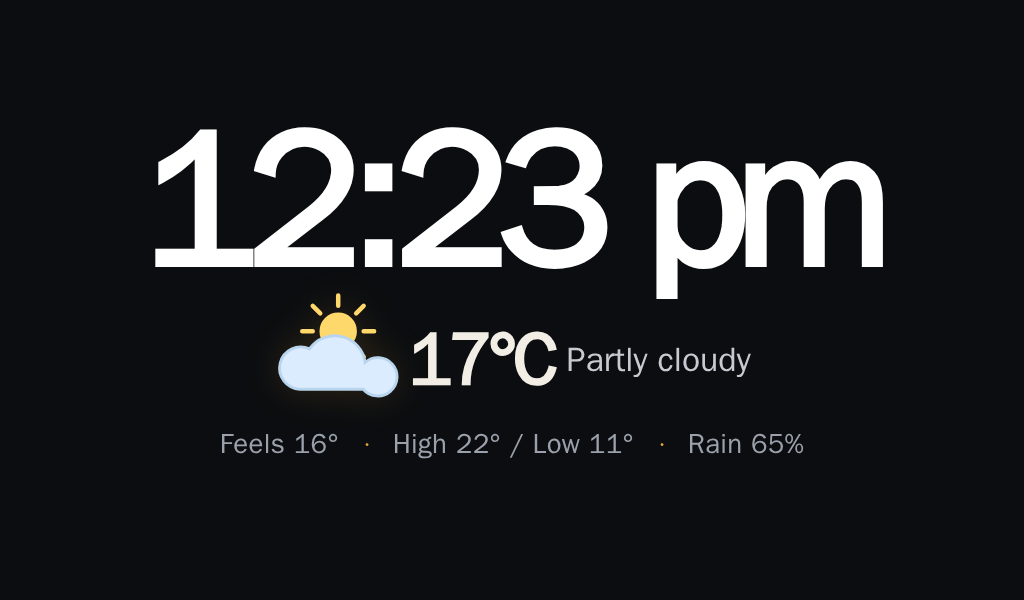
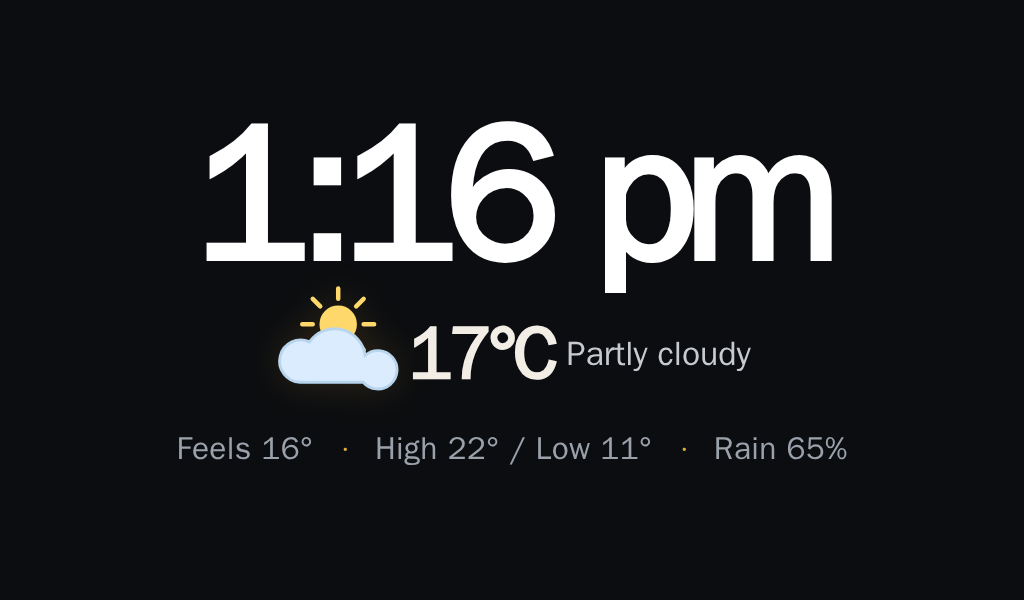
Increase Cast weather detail readability

Changed region(s): [[0.125, 0.18, 0.875, 0.51], [0.25, 0.48, 0.75, 0.66], [0.1562, 0.72, 0.8438, 0.78]]

diff --git a/cast/live-layout.html b/cast/live-layout.html
@@ -4,10 +4,10 @@
 :root{color-scheme:dark;--bg:#090b10;--panel:#141821;--line:#303745;--text:#f5f7fb;--muted:#a9b2c2;--accent:#f5a623}*{box-sizing:border-box}body{margin:0;background:var(--bg);color:var(--text);font:15px system-ui,sans-serif}a{color:var(--accent)}header.page{max-width:1420px;margin:auto;padding:20px 24px 0}nav{display:flex;gap:18px;flex-wrap:wrap}h1{font-size:26px;margin:22px 0 5px}p{color:var(--muted);line-height:1.5;margin:0 0 16px}main{max-width:1420px;margin:auto;display:grid;grid-template-columns:minmax(0,1fr) 330px;gap:20px;padding:20px 24px;align-items:start}.canvas{min-width:0;position:sticky;top:16px}.preview{border:1px solid var(--line);border-radius:16px;background:#000;overflow:hidden}iframe{display:block;width:100%;aspect-ratio:16/10;border:0}.surfaces,.chips,.actions,.align{display:flex;gap:8px;flex-wrap:wrap;margin-bottom:16px}button,select,input[type=number]{font:inherit;color:var(--text);background:#0b0e14;border:1px solid var(--line);border-radius:9px;padding:10px;cursor:pointer}button:hover{border-color:var(--accent)}button:focus-visible,a:focus-visible,input:focus-visible,select:focus-visible{outline:3px solid var(--accent);outline-offset:2px}button[aria-selected=true],button[aria-pressed=true]{border-color:var(--accent);background:#30240f}.chips{margin-top:16px}.chip{border-radius:99px}.chip.off{color:var(--muted);border-style:dashed}.controls{border:1px solid var(--line);border-radius:16px;background:var(--panel);padding:20px}h2{font-size:19px;margin:0 0 15px}.field{margin:18px 0}.field label{display:flex;justify-content:space-between;align-items:center;font-weight:650;margin-bottom:8px}output{color:var(--accent)}input[type=range]{width:100%;accent-color:var(--accent)}select{width:100%}input[type=color]{width:48px;height:32px;padding:0;border:0;background:transparent}.field small{display:block;color:var(--muted);margin-top:5px}.primary{background:var(--accent);color:#17110a;font-weight:800;border-color:var(--accent)}.savebar{position:sticky;bottom:0;background:var(--panel);padding-top:16px;border-top:1px solid var(--line);margin-top:20px}.savebar .actions{margin-bottom:8px}.savebar button{flex:1}.status{min-height:42px;color:var(--muted);font-size:13px;line-height:1.5}.check{display:flex;gap:8px;align-items:center;margin:16px 0}summary{cursor:pointer;color:var(--muted);padding:14px 0}.hint{font-size:13px;margin-top:12px}.align button{flex:1}button:disabled{opacity:.45;cursor:default}@media(max-width:850px){main{grid-template-columns:1fr;padding:14px}.canvas{position:static}header.page{padding:16px 14px 0}.controls{padding:18px}.surfaces button{flex:1;white-space:nowrap}.savebar{bottom:0}}
 </style>
 <link rel="stylesheet" href="https://fonts.googleapis.com/css2?family=Bebas+Neue&display=swap">
-<link rel="stylesheet" href="/control-shell.css?v=2.12.22">
-<link rel="stylesheet" href="/control-touch-contract.css?v=2.12.22">
-<link rel="stylesheet" href="/control-shell-narrow.css?v=2.12.22">
-<script defer src="/numeric-controls.js?v=2.12.22"></script><script defer src="/control-shell.js?v=2.12.22"></script><script src="/settings-draft.js?v=2.12.22"></script></head><body class="admin-touch-contract">
+<link rel="stylesheet" href="/control-shell.css?v=2.12.23">
+<link rel="stylesheet" href="/control-touch-contract.css?v=2.12.23">
+<link rel="stylesheet" href="/control-shell-narrow.css?v=2.12.23">
+<script defer src="/numeric-controls.js?v=2.12.23"></script><script defer src="/control-shell.js?v=2.12.23"></script><script src="/settings-draft.js?v=2.12.23"></script></head><body class="admin-touch-contract">
 <header class="page"><h1>Live / Kiosk layout</h1><nav class="mq-profile-picker" aria-label="Layout profile"><a href="/settings/layout?profile=cast">Cast cards</a><a href="/settings/layout?profile=live" aria-current="page">Live / Kiosk screens</a></nav><p>Choose a screen, select an item, then drag it into place or fine-tune it below.</p></header>
 <main><section class="canvas" aria-label="Screen preview"><div class="surfaces" id="surfaces" role="tablist" aria-label="Preview surface"></div><div class="preview"><iframe id="preview" title="Interactive preview of the selected Live screen"></iframe></div><div class="actions" id="weather-views" hidden><button type="button" data-weather-view="weather-clear">Conditions &amp; forecast</button><button type="button" data-weather-view="weather">Rain &amp; radar</button></div><div class="chips" id="chips" aria-label="Select a screen item"></div><p class="hint">Tap an item in the preview to edit it. Drag to move it. Each screen keeps its own layout.</p></section>
 <aside class="controls"><div class="field"><label for="liveTheme">Visual direction</label><select id="liveTheme"><option value="studio">Studio — oversized type / lime &amp; ink</option><option value="afterhours">After Hours — luminous control room</option><option value="dispatch">Dispatch — the household front page</option></select><small id="theme-description">Distinct layouts, typography, and materials for the household desk.</small></div><h2 id="selected-title">Clock</h2><label class="check"><input id="visible" type="checkbox"> Show this item</label>

diff --git a/cast/settings-control.html b/cast/settings-control.html
@@ -8,13 +8,13 @@
   <link rel="preconnect" href="https://fonts.googleapis.com">
   <link rel="preconnect" href="https://fonts.gstatic.com" crossorigin>
   <link rel="stylesheet" href="https://fonts.googleapis.com/css2?family=Bebas+Neue&display=swap">
-  <link rel="stylesheet" href="/settings-control.css?v=2.12.22">
-  <link rel="stylesheet" href="/control-touch-contract.css?v=2.12.22">
+  <link rel="stylesheet" href="/settings-control.css?v=2.12.23">
+  <link rel="stylesheet" href="/control-touch-contract.css?v=2.12.23">
   <style>.mode-state{display:inline-block;margin-top:7px;color:var(--amber);font-size:12px;font-weight:750}.workspace-nav{display:flex;align-items:center;gap:3px;margin:14px 0 0;border-bottom:1px solid var(--line);overflow-x:auto;scrollbar-width:thin}.workspace-nav a{display:flex;align-items:center;min-height:44px;padding:9px 12px;color:var(--mut);font-size:14px;font-weight:700;text-decoration:none;white-space:nowrap}.workspace-nav a[aria-current=page]{color:var(--amber);box-shadow:inset 0 -2px var(--amber)}.workspace-nav .view-display{margin-left:auto;color:var(--amber)}.product-rows{display:grid;gap:0}.product-row{display:flex;justify-content:space-between;gap:18px;padding:11px 4px;border-top:1px solid var(--line)}.release-copy{max-height:320px;overflow:auto;white-space:pre-wrap;color:var(--mut);font:13px/1.5 ui-monospace,monospace}@media(max-width:520px){html,body{overflow-x:hidden}.shell>*{min-width:0}.setting-row label{min-width:0}.savebar button{min-width:0;font-size:13px}.savebar:has(button:disabled){padding-block:8px}.savebar:has(button:disabled) button:disabled{display:none}.workspace-nav{margin-inline:-14px;padding-inline:8px}.workspace-nav .view-display{margin-left:0}.product-row{display:block}.product-row>*:last-child{display:block;margin-top:4px}}</style>
   <style>.health-item{display:grid;gap:4px;align-content:start;min-width:0}.health-provider{font-size:15px}.health-status{font-weight:750}.health-status.stale{color:var(--amber)}.health-explanation{line-height:1.35}.health-recency{font-size:11px!important;color:var(--muted);line-height:1.35}.health-item>span:not(.health-status):not(.health-explanation):not(.health-recency){font-size:12px;color:var(--muted)}@media(max-width:520px){.health-item{padding:13px 14px}}</style>
-  <link rel="stylesheet" href="/settings-narrow-nav.css?v=2.12.22">
-  <script defer src="/numeric-controls.js?v=2.12.22"></script>
-  <script defer src="/settings-control.js?v=2.12.22"></script>
+  <link rel="stylesheet" href="/settings-narrow-nav.css?v=2.12.23">
+  <script defer src="/numeric-controls.js?v=2.12.23"></script>
+  <script defer src="/settings-control.js?v=2.12.23"></script>
 </head>
 <body class="admin-touch-contract">
 <main class="shell">

diff --git a/output/index.html b/output/index.html
@@ -743,9 +743,9 @@
   body.live-editing [data-layout] { outline:none; }
   body.live-editing .screen-controls, body.live-editing nav { display:none !important; }
 </style>
-<link rel="stylesheet" href="/brain.css?v=2.12.22">
-<link rel="stylesheet" href="/screens.css?v=2.12.22">
-<link rel="stylesheet" href="/weather-channel.css?v=2.12.22">
+<link rel="stylesheet" href="/brain.css?v=2.12.23">
+<link rel="stylesheet" href="/screens.css?v=2.12.23">
+<link rel="stylesheet" href="/weather-channel.css?v=2.12.23">
 <link rel="stylesheet" href="/scene-themes.css?v=2.9.7">
 <body data-template="spotlight">
 <img class="bg" id="bg" alt="">
@@ -846,12 +846,12 @@
 <time class="cast-clock-overlay" id="cast-clock-overlay"></time>
 <div class="idle-screen"><div class="idle-house"><div class="idle-kicker" id="idle-kicker">Home</div><div class="idle-greeting" id="idle-greeting"></div><div class="idle-state" id="idle-state" hidden></div><div class="idle-note" id="idle-note" hidden></div><time class="idle-clock" id="idle-clock"></time><div class="idle-date" id="idle-date"></div><div class="idle-weather" id="idle-weather" aria-label="Current weather"><div class="idle-weather-primary"><span class="idle-weather-icon" id="idle-weather-icon" aria-hidden="true"></span><strong id="idle-weather-temp"></strong><span id="idle-weather-condition"></span></div><div class="idle-weather-secondary"><span id="idle-weather-feels"></span><span id="idle-weather-range"></span><span id="idle-weather-rain"></span></div><div class="idle-weather-status" id="idle-weather-status"></div></div></div></div>
 <div class="ambient-veil" aria-hidden="true"></div>
-<script src="/lifecycle.js?v=2.12.22"></script>
-<script src="/state-contract.js?v=2.12.22"></script>
-<script src="/weather-channel.js?v=2.12.22"></script>
-<script src="/weather-summary.js?v=2.12.22"></script>
-<script src="/now-playing-progress.js?v=2.12.22"></script>
-<script src="/brain.js?v=2.12.22"></script>
+<script src="/lifecycle.js?v=2.12.23"></script>
+<script src="/state-contract.js?v=2.12.23"></script>
+<script src="/weather-channel.js?v=2.12.23"></script>
+<script src="/weather-summary.js?v=2.12.23"></script>
+<script src="/now-playing-progress.js?v=2.12.23"></script>
+<script src="/brain.js?v=2.12.23"></script>
 <script>
 
   const $ = id => document.getElementById(id);
@@ -2857,4 +2857,4 @@ ${chase.join('')}
   window.MarqueeLifecycle.register('surface-animation', {interval: 1000, refresh: () => paint()});
 </script>
 
-<script src="/kiosk-menu.js?v=2.12.22"></script>
+<script src="/kiosk-menu.js?v=2.12.23"></script>

diff --git a/cast/cast-layout.html b/cast/cast-layout.html
@@ -8,7 +8,7 @@
 <link rel="preconnect" href="https://fonts.googleapis.com">
 <link rel="preconnect" href="https://fonts.gstatic.com" crossorigin>
 <link rel="stylesheet" href="https://fonts.googleapis.com/css2?family=Bebas+Neue&display=swap">
-<link rel="stylesheet" href="/control-touch-contract.css?v=2.12.22">
+<link rel="stylesheet" href="/control-touch-contract.css?v=2.12.23">
 <style>
   :root { --bg:#0B0D10; --panel:#14171C; --line:#262B33; --text:#F2EEE6;
     --mut:#9AA1AB; --amber:#E5A83B;
@@ -387,10 +387,10 @@
     .mq-mode-link { padding: 12px; }
   }
 </style>
-<link rel="stylesheet" href="/control-shell.css?v=2.12.22">
-<link rel="stylesheet" href="/control-shell-narrow.css?v=2.12.22">
-<script defer src="/numeric-controls.js?v=2.12.22"></script>
-<script defer src="/control-shell.js?v=2.12.22"></script>
+<link rel="stylesheet" href="/control-shell.css?v=2.12.23">
+<link rel="stylesheet" href="/control-shell-narrow.css?v=2.12.23">
+<script defer src="/numeric-controls.js?v=2.12.23"></script>
+<script defer src="/control-shell.js?v=2.12.23"></script>
 
 <script src="/settings-draft.js?v=3"></script>
 <div class="wrap">

diff --git a/output/screens.css b/output/screens.css
@@ -82,7 +82,7 @@ body.cast-display .idle-wx-svg .wx-rain{fill:none;stroke:#7bd7ff;stroke-width:3;
 body.cast-display .idle-wx-svg .wx-snow{fill:#eff8ff}
 body.cast-display .idle-wx-svg .wx-bolt{fill:#ffe26e}
 body.cast-display .idle-wx-svg .wx-fog{fill:none;stroke:#b9c9da;stroke-width:3;stroke-linecap:round}
-body.cast-display .idle-weather-secondary{justify-content:center;gap:.25em .9em;max-width:100%;font-size:clamp(1.15rem,2.7vw,2.15rem);line-height:1.15;color:var(--muted);letter-spacing:.01em;white-space:nowrap}
+body.cast-display .idle-weather-secondary{justify-content:center;gap:.25em .9em;max-width:100%;margin-top:1.4vh;font-size:clamp(1.35rem,3.1vw,2.45rem);line-height:1.15;color:var(--muted);letter-spacing:.01em;white-space:nowrap}
 body.cast-display .idle-weather-secondary>*{white-space:nowrap}
 body.cast-display .idle-weather-secondary>span:not(:empty)+span:not(:empty)::before{content:'·';margin-inline-end:.8em;color:var(--accent)}
 body.cast-display .idle-weather-status{font-size:clamp(.8rem,1.25vw,1.15rem);min-height:1em;color:var(--muted);letter-spacing:.08em;text-transform:uppercase}

diff --git a/cast/display-tests.html b/cast/display-tests.html
@@ -5,12 +5,12 @@
   <meta name="viewport" content="width=device-width,initial-scale=1">
   <title>Marquee — Display tests</title>
   <link rel="stylesheet" href="https://fonts.googleapis.com/css2?family=Bebas+Neue&display=swap">
-  <link rel="stylesheet" href="/control-shell.css?v=2.12.22">
+  <link rel="stylesheet" href="/control-shell.css?v=2.12.23">
   <link rel="stylesheet" href="/settings-admin.css">
-<link rel="stylesheet" href="/control-touch-contract.css?v=2.12.22">
-  <link rel="stylesheet" href="/control-shell-narrow.css?v=2.12.22">
-  <script defer src="/numeric-controls.js?v=2.12.22"></script>
-  <script defer src="/control-shell.js?v=2.12.22"></script>
+<link rel="stylesheet" href="/control-touch-contract.css?v=2.12.23">
+  <link rel="stylesheet" href="/control-shell-narrow.css?v=2.12.23">
+  <script defer src="/numeric-controls.js?v=2.12.23"></script>
+  <script defer src="/control-shell.js?v=2.12.23"></script>
   <script defer src="/display-tests.js"></script>
 </head>
 <body class="admin-touch-contract">

diff --git a/cast/attention-settings.html b/cast/attention-settings.html
@@ -5,12 +5,12 @@
   <meta name="viewport" content="width=device-width,initial-scale=1">
   <title>Marquee — Household attention</title>
   <link rel="stylesheet" href="https://fonts.googleapis.com/css2?family=Bebas+Neue&display=swap">
-  <link rel="stylesheet" href="/control-shell.css?v=2.12.22">
+  <link rel="stylesheet" href="/control-shell.css?v=2.12.23">
   <link rel="stylesheet" href="/settings-admin.css">
-<link rel="stylesheet" href="/control-touch-contract.css?v=2.12.22">
-<link rel="stylesheet" href="/control-shell-narrow.css?v=2.12.22">
-<script defer src="/numeric-controls.js?v=2.12.22"></script>
-<script defer src="/control-shell.js?v=2.12.22"></script>
+<link rel="stylesheet" href="/control-touch-contract.css?v=2.12.23">
+<link rel="stylesheet" href="/control-shell-narrow.css?v=2.12.23">
+<script defer src="/numeric-controls.js?v=2.12.23"></script>
+<script defer src="/control-shell.js?v=2.12.23"></script>
   <script defer src="/attention-settings.js"></script>
 </head>
 <body class="admin-touch-contract">

diff --git a/cast/settings.html b/cast/settings.html
@@ -8,7 +8,7 @@
 <link rel="preconnect" href="https://fonts.googleapis.com">
 <link rel="preconnect" href="https://fonts.gstatic.com" crossorigin>
 <link rel="stylesheet" href="https://fonts.googleapis.com/css2?family=Bebas+Neue&display=swap">
-<link rel="stylesheet" href="/control-touch-contract.css?v=2.12.22">
+<link rel="stylesheet" href="/control-touch-contract.css?v=2.12.23">
 <style>
   :root { --bg:#0B0D10; --panel:#14171C; --line:#262B33; --text:#F2EEE6;
     --mut:#9AA1AB; --amber:#E5A83B;

diff --git a/tests/browser_cast_weather_geometry.py b/tests/browser_cast_weather_geometry.py
@@ -54,8 +54,10 @@ def test_cast_weather_keeps_clock_centered_and_uses_condition_icon(tmp_path):
               document.body.classList.add('idle');
               const box = selector => document.querySelector(selector).getBoundingClientRect().toJSON();
               const clock = box('#idle-clock'), house = box('.idle-house'), weather = box('#idle-weather');
+              const secondary = box('.idle-weather-secondary');
               return {
                 clock, house, weather,
+                secondaryBox: secondary,
                 viewport: {width: innerWidth, height: innerHeight},
                 icon: document.querySelector('#idle-weather-icon svg')?.dataset.kind,
                 temp: document.querySelector('#idle-weather-temp').textContent,
@@ -84,7 +86,11 @@ def test_cast_weather_keeps_clock_centered_and_uses_condition_icon(tmp_path):
         assert page.locator("#idle-weather-icon").bounding_box()["width"] >= 90
         assert page.locator("#idle-weather-temp").bounding_box()["height"] >= 55
         assert page.locator("#idle-weather-condition").bounding_box()["height"] >= 25
-        assert page.locator(".idle-weather-secondary").bounding_box()["height"] >= 22
+        assert result["secondaryBox"]["height"] >= 32
+        primary_box = page.locator(".idle-weather-primary").bounding_box()
+        assert result["secondaryBox"]["y"] > primary_box["y"] + primary_box["height"] + 10
+        assert result["secondaryBox"]["bottom"] <= result["viewport"]["height"] - 100
+        assert result["secondaryBox"]["height"] < result["weather"]["height"] / 2
         assert result["house"]["height"] >= 350
         assert result["house"]["height"] <= 560
         assert result["house"]["left"] >= 0 and result["house"]["right"] <= 1024

diff --git a/CHANGELOG.md b/CHANGELOG.md
@@ -1,3 +1,7 @@
+# 2.12.23
+
+- Enlarge only the Cast ambient weather detail line for across-room readability, give it tasteful lower spacing, and keep the one-line 1024×600 composition overflow-safe.
+
 # 2.12.22
 
 - Enlarge the Cast ambient weather icon, current conditions, and especially the secondary forecast for across-room Nest Hub Max readability while keeping the clock centered and the composition overflow-safe.
